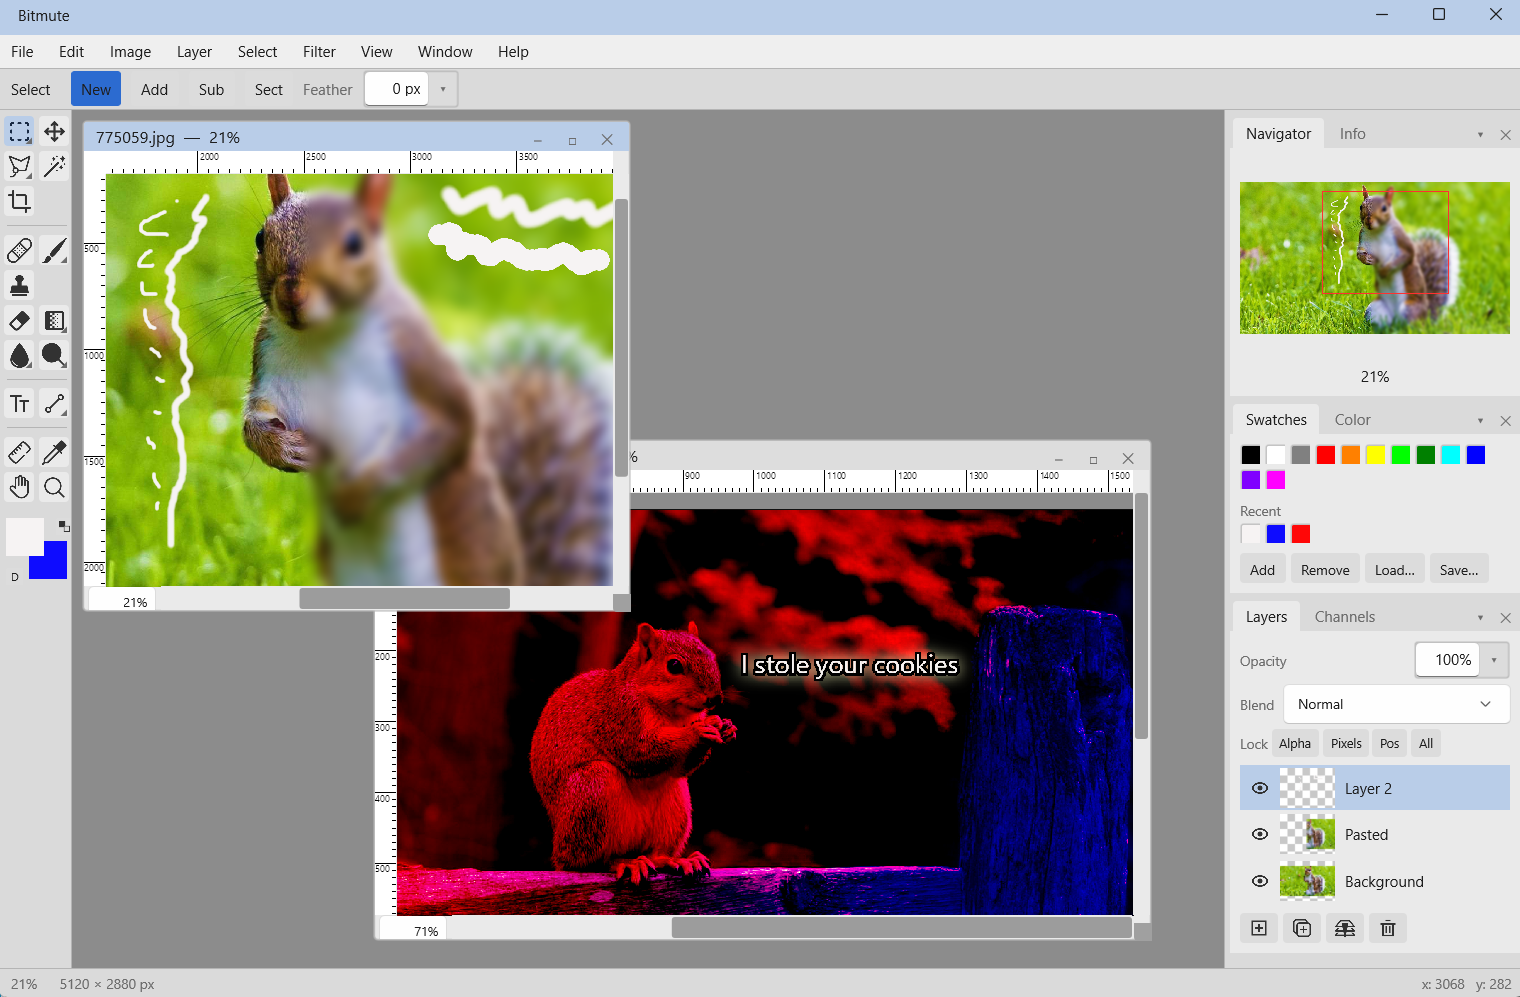
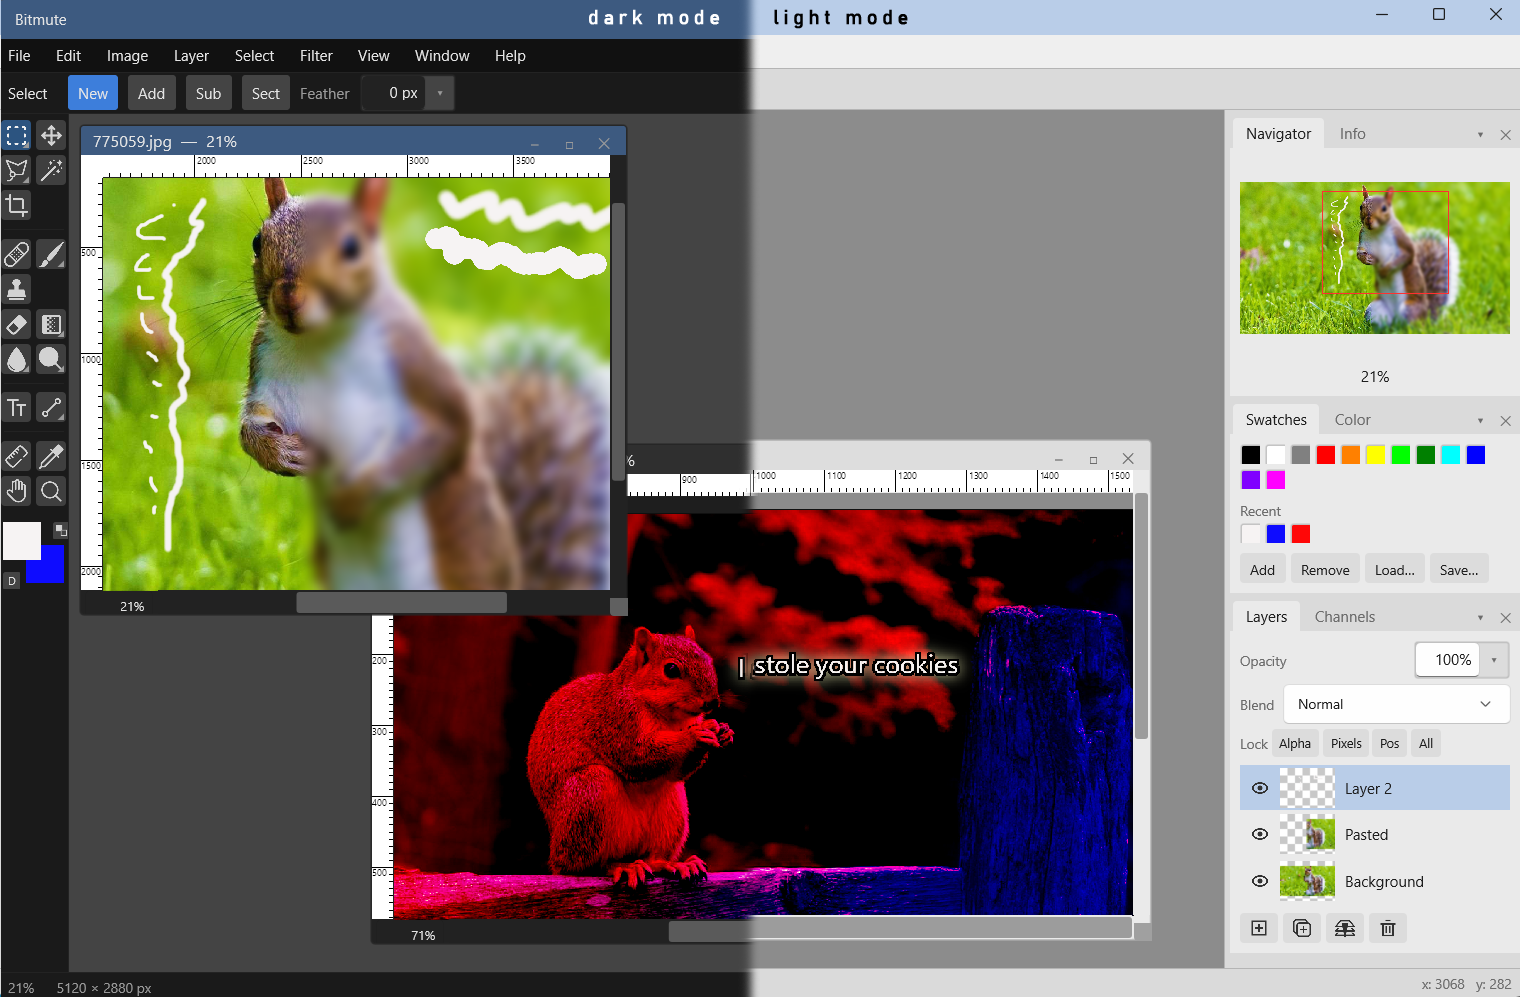
Update readme

diff --git a/readme.md b/readme.md
@@ -1,20 +1,22 @@
 # Bitmute
 
-A raster image editor built with .NET MAUI and SkiaSharp, targeting Windows (Mac and Linux as a future goal).
+A raster image editor for game development and general-purpose pixel work, built with .NET MAUI and SkiaSharp. Targets Windows (Linux as a future goal).
 
 ![Preview](Docs/preview.png)
 
 ## Features
 
-- Layer system with groups, blend modes, and per-layer opacity
-- Brush, pencil, eraser, fill, text, and selection tools
-- Filters: blur, sharpen, brightness/contrast, HSL shift, invert
-- Canvas support up to 8K+ resolution
-- Resize/scale with nearest-neighbor, bilinear, and bicubic interpolation
-- Grid overlay, clipboard paste, drag-drop import
-- Moveable panels with persistent layout
-- Native binary project format (`.bitmute`)
-- PNG, JPEG, BMP import/export
+- 27 layer blend modes — the full classic set, including Linear Burn, Vivid/Linear/Pin Light, Hard Mix, Darker/Lighter Color, and Dissolve
+- Non-destructive layer styles: drop shadow, inner/outer glow, bevel & emboss, and stroke, with live preview and copy/paste between layers
+- Free Transform (Ctrl+T): scale, rotate, skew, distort, and perspective with a live warped preview
+- Full brush engine — hardness, opacity, flow, spacing, stroke smoothing, airbrush, and per-stroke blend modes — shared across clone, heal, dodge/burn, sponge, smudge, color replacement, and more
+- 35+ filters (Blur, Distort, Noise, Pixelate, Render, Sharpen, Stylize, Video) plus adjustments, all with live on-canvas preview
+- Editable text layers with WYSIWYG in-canvas editing and a full character panel: leading, kerning, tracking, scale, baseline shift
+- Selections as 8-bit coverage masks — feather, anti-alias, add/subtract/intersect modes, floating moves
+- Channels panel with per-channel grayscale view — verify alpha mask integrity without exporting
+- Import/export: PNG, JPEG, BMP, TGA (with RLE), WebP, GIF (read)
+- Open `.bitmute` project format — a ZIP container, inspectable and partially recoverable, round-trips layers, editable text, and selections
+- Canvas support up to 8K+ resolution with dirty-rect compositing and undo
 
 ## Building
 